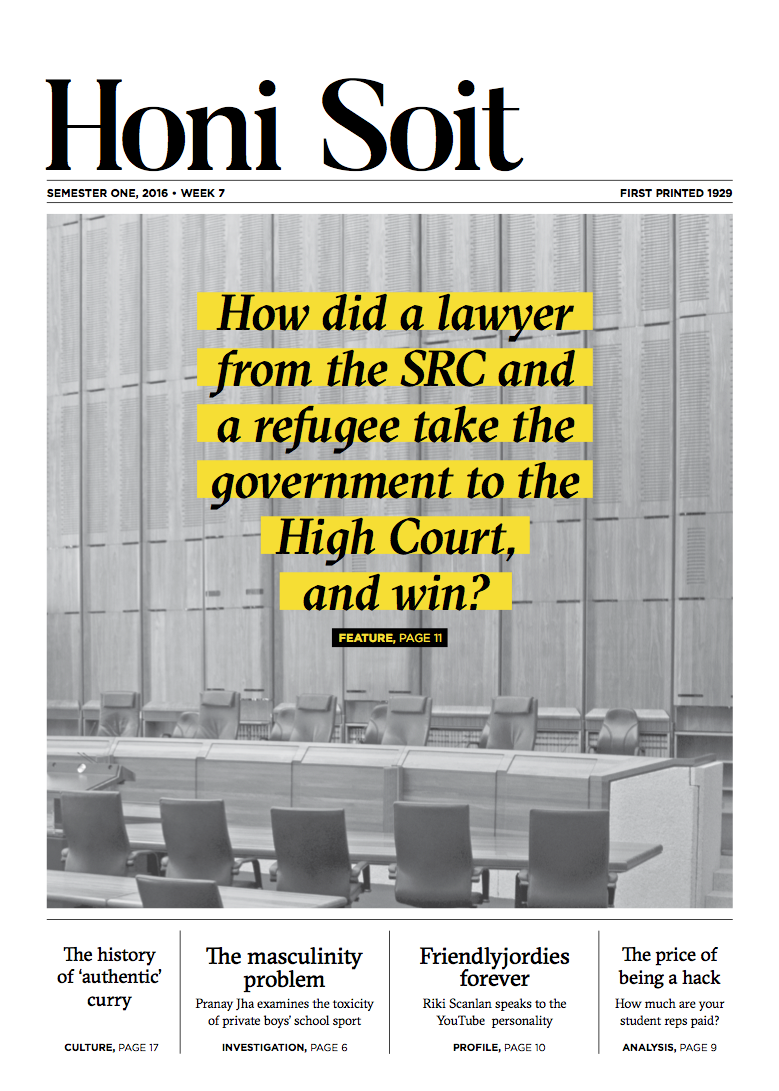
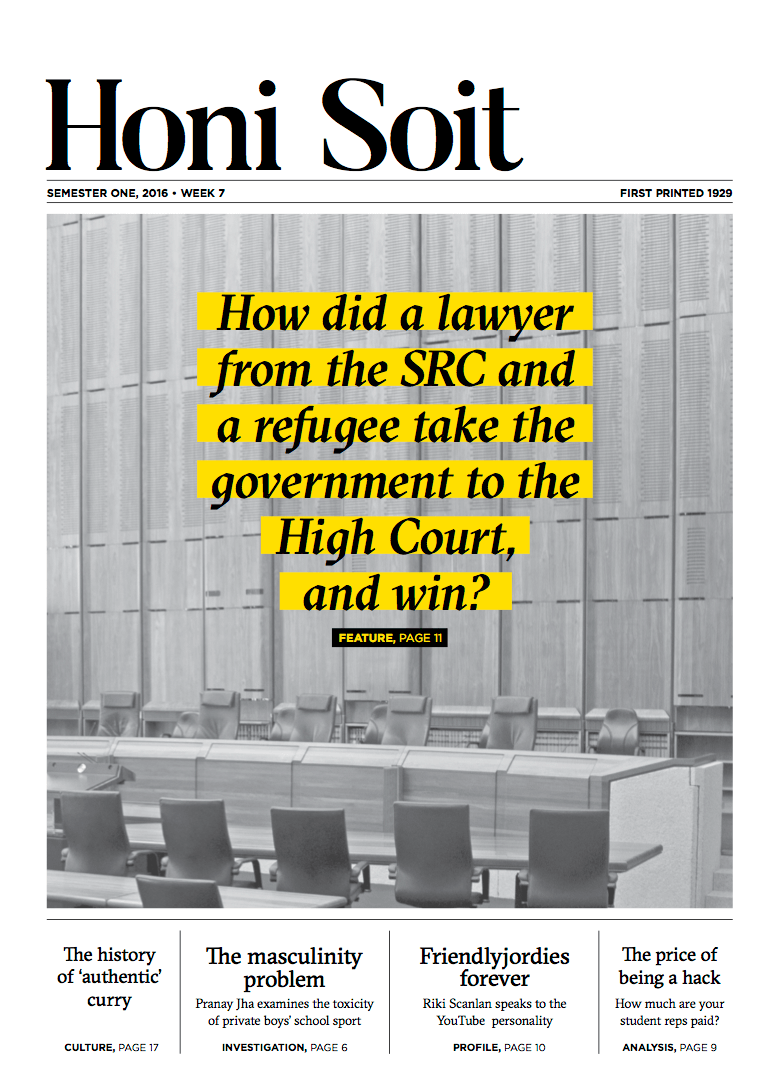
Compress images

Changed region(s): [[0.2465, 0.2493, 0.7702, 0.5921]]

diff --git a/design/index.md b/design/index.md
@@ -2,6 +2,8 @@
 layout: page
 title: Max Hall | Design
 ---
+Selected design work:
+
 ## Honi Soit
 
 Identity, print templates and weekly layout. 2016.
@@ -13,7 +15,6 @@ Identity, print templates and weekly layout. 2016.
 ![Honi]({{ site.baseurl }}/images/cover5.png)
 ![Honi]({{ site.baseurl }}/images/news1.png)
 ![Honi]({{ site.baseurl }}/images/news1.png)
-![Honi]({{ site.baseurl }}/images/news3.png)
 ![Honi]({{ site.baseurl }}/images/spread1.png)
 ![Honi]({{ site.baseurl }}/images/spread2.png)
 ![Honi]({{ site.baseurl }}/images/spread3.png)
